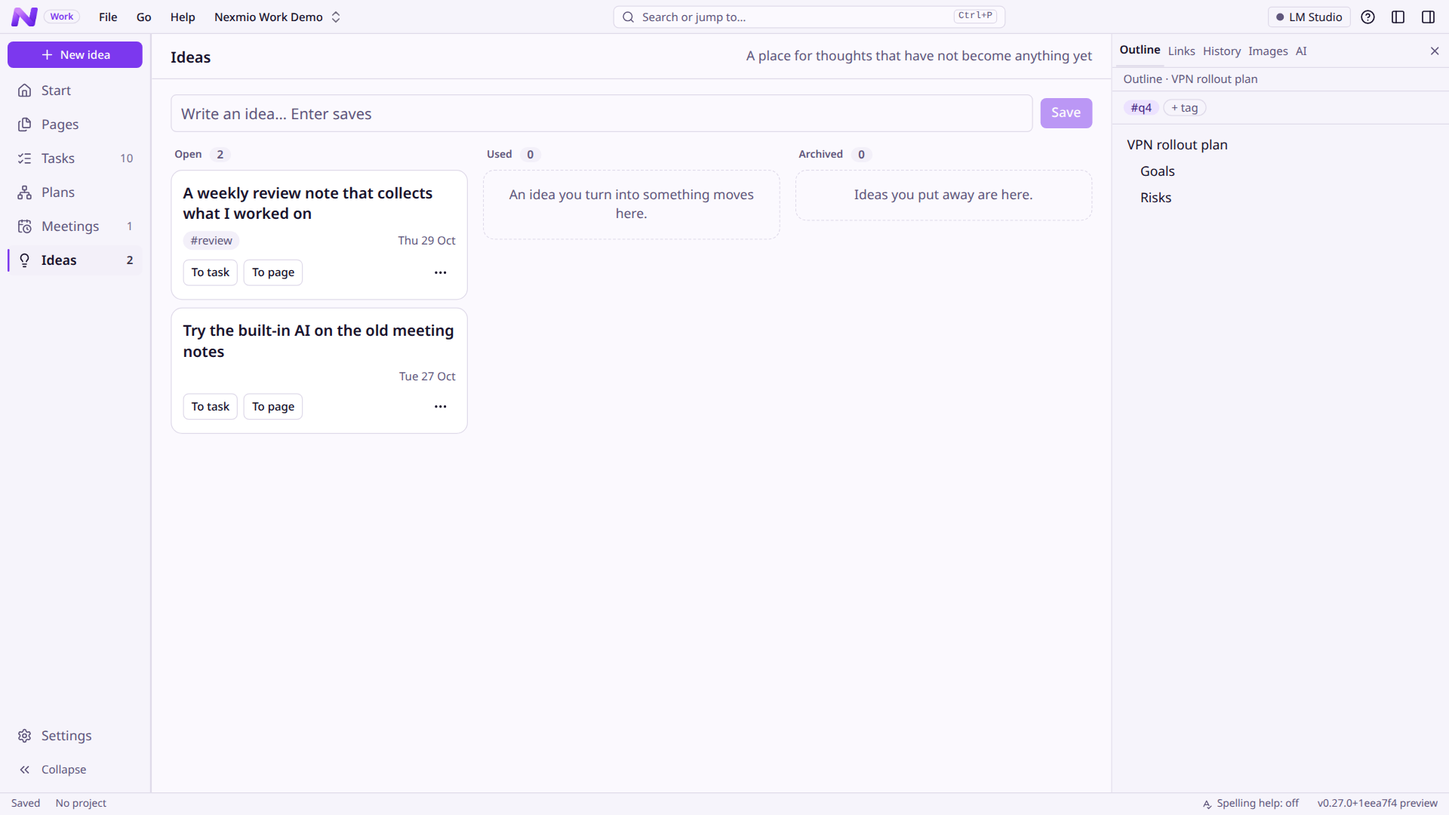
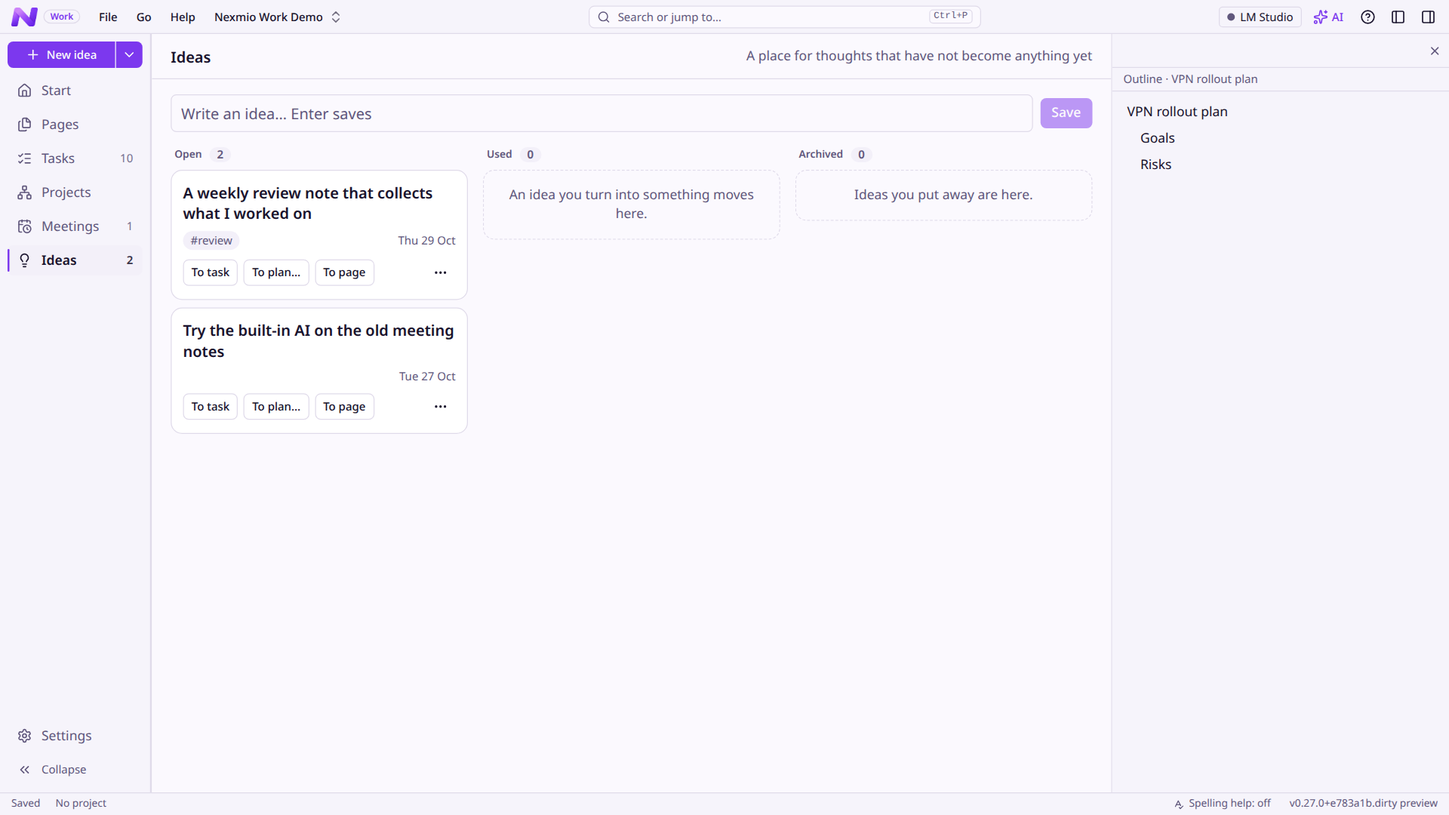
chore(site): new screenshots and text for 0.28
The website, the README and the Store listing show the app as it is now: projects with an
overview, Look back and the AI box. The screenshot script makes the three new pictures.

Claude-Session: https://claude.ai/code/session_01JqnWusy55VLZ8nyzRAkX9s

diff --git a/site/index.html b/site/index.html
@@ -26,7 +26,7 @@
 <div class="wrap" id="top">
   <div class="hero">
     <div class="hero-in">
-      <div class="badge"><i></i> Free for Windows and Linux · <b data-dl="version">v0.27</b></div>
+      <div class="badge"><i></i> Free for Windows and Linux · <b data-dl="version">v0.28</b></div>
       <span class="nx" data-logo="purple" data-tag="Work"></span>
       <h1>Think it. Plan it. Do it. Keep it.</h1>
       <p>Nexmio Work keeps your pages as plain Markdown files, with tasks, plans, meetings and an AI that runs on your own computer and only ever suggests.</p>
@@ -51,7 +51,7 @@
   <section id="features">
     <p class="eyebrow">Features</p>
     <h2 class="sec-title">Everything in one place, nothing locked in.</h2>
-    <div class="cards"><div class="feature"><div class="ico">✓</div><h3>Tasks that live in your pages</h3><p>A task is a checklist line, so it works in any editor. Group them into epics, see one epic at a time, and focus on one thing at a time.</p><ul class="ticks" style="margin-top:12px"><li>Epics with steps, a page and a log of what happened</li><li>A status on every task: Doing, Waiting or Dropped</li><li>A timer that writes the time in the task's log, and a Time view for invoices</li></ul><img class="shot" loading="lazy" src="img/tasks.png" alt="The task list with epics, progress bars, steps and status labels"></div><div class="feature"><div class="ico">✦</div><h3>An AI that only suggests</h3><p>Select text and choose what to do. Nexmio Work shows the change next to the original, and nothing is written until you accept it.</p><ul class="ticks" style="margin-top:12px"><li>Runs on your computer: built-in models, or LM Studio</li><li>Fixed commands that do one thing and return only the result</li><li>Draw a diagram from a text, added only if you say so</li></ul></div><div class="feature"><div class="ico">◧</div><h3>Pages for the whole meeting</h3><p>Write your pages in one place all through the meeting. Add only the parts you want: an agenda, decisions, and actions that become tasks.</p><ul class="ticks" style="margin-top:12px"><li>An action is a task in your page, so it shows in Tasks too</li><li>A small arrow writes an agenda point into the pages</li></ul><img class="shot" loading="lazy" src="img/meeting.png" alt="A running meeting with the agenda, the notes, decisions and actions"></div><div class="feature"><div class="ico">▦</div><h3>Plans, one part at a time</h3><p>Break something big into parts, and the parts into smaller parts. See it as an outline or as a map, and tie a part to a task, a page or an epic.</p><ul class="ticks" style="margin-top:12px"><li>Arrange the map: side by side, stacked or in a grid</li><li>Archive a plan when it is done, and open it again if you need it</li></ul></div><div class="feature"><div class="ico">☰</div><h3>A start page and your own look</h3><p>Your start page shows what you need today, built from widgets you choose. Pick Light, Dark or one of six calm palettes.</p><ul class="ticks" style="margin-top:12px"><li>Next meetings, recent pages, plans and epic progress at a glance</li><li>Your pages never change: the theme is only how the app looks</li></ul><img class="shot" loading="lazy" src="img/midnight.png" alt="The start page in the Midnight theme"></div><div class="feature"><div class="ico">#</div><h3>Your own tags, kept apart</h3><p>Tag a page with any word and find it again in search. The tags the app uses are shown apart, with what each one does.</p><ul class="ticks" style="margin-top:12px"><li>Tags are written in the page's properties, so any editor reads them</li><li>The AI never adds or takes away the app's own tags</li></ul><img class="shot" loading="lazy" src="img/tags.png" alt="The Tags window with the app's tags and your own tags"></div></div>
+    <div class="cards"><div class="feature"><div class="ico">✓</div><h3>Tasks that live in your pages</h3><p>A task is a checklist line, so it works in any editor. Group them into epics, see one epic at a time, and focus on one thing at a time.</p><ul class="ticks" style="margin-top:12px"><li>Epics with steps, a page and a log of what happened</li><li>A status on every task: Doing, Waiting or Dropped</li><li>A timer that writes the time in the task's log, and a Time view for invoices</li></ul><img class="shot" loading="lazy" src="img/tasks.png" alt="The task list with epics, progress bars, steps and status labels"></div><div class="feature"><div class="ico">✦</div><h3>An AI that knows your work, and only suggests</h3><p>Ask what to do next or what you are waiting for, or select text and choose what to do. Nothing is written until you accept it.</p><ul class="ticks" style="margin-top:12px"><li>It reads your tasks, projects and meetings, and answers from them</li><li>It can suggest tasks and parts of a plan, for you to accept</li><li>Runs on your computer: built-in models, or LM Studio</li><li>Fixed commands that do one thing and return only the result</li></ul><img class="shot" loading="lazy" src="img/ai-box.png" alt="The AI box over the task list, with questions to start with"></div><div class="feature"><div class="ico">◧</div><h3>Pages for the whole meeting</h3><p>Write your pages in one place all through the meeting. Add only the parts you want: an agenda, decisions, and actions that become tasks.</p><ul class="ticks" style="margin-top:12px"><li>An action is a task in your page, so it shows in Tasks too</li><li>A small arrow writes an agenda point into the pages</li></ul><img class="shot" loading="lazy" src="img/meeting.png" alt="A running meeting with the agenda, the notes, decisions and actions"></div><div class="feature"><div class="ico">▦</div><h3>Projects, one part at a time</h3><p>Break something big into parts, and the parts into smaller parts. See it as a map or as an outline, and tie a part to a task or a page.</p><ul class="ticks" style="margin-top:12px"><li>An overview of each project: how far it has come, what to do now, what waits, its meetings and decisions</li><li>Arrange the map: side by side, stacked or in a grid</li><li>Archive a plan when it is done, and open it again if you need it</li></ul><img class="shot" loading="lazy" src="img/projects.png" alt="A project's map with its parts as boxes, and the chosen part in the right panel"></div><div class="feature"><div class="ico">↺</div><h3>Look back on your week</h3><p>See what you finished, the time you logged, the meetings you held and the pages you wrote, all in one place, week by week.</p><ul class="ticks" style="margin-top:12px"><li>Copy it as a status report, or let the AI write a few sentences from it</li><li>One project or all of them</li></ul><img class="shot" loading="lazy" src="img/look-back.png" alt="Look back: what was done, the time logged, the meetings and the pages written this week"></div><div class="feature"><div class="ico">☰</div><h3>A start page and your own look</h3><p>Your start page shows what you need today, built from widgets you choose. Pick Light, Dark or one of six calm palettes.</p><ul class="ticks" style="margin-top:12px"><li>Next meetings, recent pages, plans and epic progress at a glance</li><li>Your pages never change: the theme is only how the app looks</li></ul><img class="shot" loading="lazy" src="img/midnight.png" alt="The start page in the Midnight theme"></div><div class="feature"><div class="ico">#</div><h3>Your own tags, kept apart</h3><p>Tag a page with any word and find it again in search. The tags the app uses are shown apart, with what each one does.</p><ul class="ticks" style="margin-top:12px"><li>Tags are written in the page's properties, so any editor reads them</li><li>The AI never adds or takes away the app's own tags</li></ul><img class="shot" loading="lazy" src="img/tags.png" alt="The Tags window with the app's tags and your own tags"></div></div>
   </section>
   <section id="files">
     <p class="eyebrow">Your files</p>

diff --git a/site/site.css b/site/site.css
@@ -137,6 +137,8 @@
 
 /* ---------- shared layout additions ---------- */
 .nav .wrap nav.links { margin-left:0; }
+/* An odd number of cards leaves the last one alone on its row: it sits under the middle column. */
+@media (min-width:1000px) { .cards > .feature:last-child:nth-child(3n+1) { grid-column:2; } }
 .feature { padding:26px; border-radius:24px; background:var(--surface); border:1px solid var(--line); position:relative; overflow:hidden; }
 .feature h3 { font-size:20px; font-weight:600; margin:0 0 8px; }
 .feature p { margin:0; color:var(--muted); }

diff --git a/docs/STORE-LISTING.md b/docs/STORE-LISTING.md
@@ -2,18 +2,18 @@
 
 Use this together with [docs/MSIX.md](MSIX.md). Everything below is in English, because the app is. Partner Center shows the exact size and length limits for each field, so trust it over this page if they differ.
 
-## What the release sends by itself
+## What the release makes for the Store
 
-Every release sends these fields to both Store products: the description, short description and search terms below; "What's new" from `CHANGELOG.md`; the notes for certification and the runFullTrust reason below; and the fixed fields in `docs/store/store-fields.json` (copyright and trademark, developed by, website, privacy policy, support contact, features, hardware). Change the text here or in that file and it goes out with the next release. The pictures below (ten screenshots, the icon and the box art) are sent with every release and replace the Store's pictures of those types. Price, markets, visibility, category and age rating are **not** touched: they stay as they were set in Partner Center. A Preview product that is not hidden is never updated (the script stops).
+Nothing is sent to the Store for now: the package and the texts are uploaded in Partner Center by hand. Every release makes these fields for both Store products (the artifact `release-texts` of the release run has them as files): the description, short description and search terms below; "What's new" from `CHANGELOG.md`; the notes for certification and the runFullTrust reason below; and the fixed fields in `docs/store/store-fields.json` (copyright and trademark, developed by, website, privacy policy, support contact, features, hardware). Change the text here or in that file and the next release has it. The pictures below (ten screenshots, the icon and the box art) are sent with every release and replace the Store's pictures of those types. Price, markets, visibility, category and age rating are **not** touched: they stay as they were set in Partner Center. A Preview product that is not hidden is never updated (the script stops).
 
 ## Files
 
-| What                      | File                                                                                                                                                                                                                                                                                                                                                                                                                                                                                                |
-| ------------------------- | --------------------------------------------------------------------------------------------------------------------------------------------------------------------------------------------------------------------------------------------------------------------------------------------------------------------------------------------------------------------------------------------------------------------------------------------------------------------------------------------------- |
-| App icon, 1:1, 300 × 300  | `docs/store/icon-300x300.png`                                                                                                                                                                                                                                                                                                                                                                                                                                                                       |
-| Box art, 1:1, 1080 × 1080 | `docs/store/box-art-1080x1080.png`                                                                                                                                                                                                                                                                                                                                                                                                                                                                  |
-| Screenshots               | `docs/screenshots/` (1920 × 1080, taken from a demo vault in a headless browser, never from real pages). The Store wants at least 1366 × 768 and accepts up to ten: `start-page.png`, `note-editor.png`, `tasks.png`, `task-page.png`, `timer.png`, `meeting.png`, `tags.png`, `themes.png`, `midnight.png`, `ideas.png`. They are the same pictures the README shows. They show no AI result, because that needs a running AI; take one of the AI review yourself on a demo vault if you want one. |
-| The package               | The artifact `nexmio-work-msix` (unsigned) from the release run                                                                                                                                                                                                                                                                                                                                                                                                                                     |
+| What                      | File                                                                                                                                                                                                                                                                                                                                                                                                                                                                                                                                                                                                                                                 |
+| ------------------------- | ---------------------------------------------------------------------------------------------------------------------------------------------------------------------------------------------------------------------------------------------------------------------------------------------------------------------------------------------------------------------------------------------------------------------------------------------------------------------------------------------------------------------------------------------------------------------------------------------------------------------------------------------------- |
+| App icon, 1:1, 300 × 300  | `docs/store/icon-300x300.png`                                                                                                                                                                                                                                                                                                                                                                                                                                                                                                                                                                                                                        |
+| Box art, 1:1, 1080 × 1080 | `docs/store/box-art-1080x1080.png`                                                                                                                                                                                                                                                                                                                                                                                                                                                                                                                                                                                                                   |
+| Screenshots               | `docs/screenshots/` (1920 × 1080, taken from a demo vault in a headless browser, never from real pages). The Store wants at least 1366 × 768 and accepts up to ten. Use these, in this order: `start-page.png`, `projects.png`, `project-overview.png`, `look-back.png`, `ai-box.png`, `tasks.png`, `note-editor.png`, `meeting.png`, `task-page.png`, `themes.png`. The others (`timer.png`, `tags.png`, `ideas.png`, `midnight.png`) are for the README and the website. They are the same pictures the README shows. They show no AI result, because that needs a running AI; take one of the AI review yourself on a demo vault if you want one. |
+| The package               | The artifact `nexmio-work-msix` (unsigned) from the release run                                                                                                                                                                                                                                                                                                                                                                                                                                                                                                                                                                                      |
 
 ## Product identity and name
 
@@ -32,9 +32,9 @@ Nexmio Work is a pages app for people who want to own their pages. Your pages ar
 
 - A live-preview Markdown editor with a toolbar, tabs, split view and a table editor. Mermaid diagrams are drawn right in the page.
 - Tasks are plain checklist lines in your pages, with steps, a page and a log. Epics group them in one outline you can fold, and move to Done when every task is done. A task made from a page gets an epic of its own that points back to the page.
-- Projects and plans: a project is a folder with its own notes for the AI. A plan always lives in a project: break it into parts, as an outline or a map, and tie a part to a task, a page or an epic. A project can wait for its plan until you have gathered enough to make one, and the same task can be made for several people at once.
+- Projects and plans: a project is a folder with its own notes for the AI. A plan always lives in a project: break it into parts, as a map or an outline, and tie a part to a task or a page. An overview shows how far the project has come, what to do now, what waits, and its meetings and decisions. A project can wait for its plan until you have gathered enough to make one, and the same task can be made for several people at once.
 - An ideas list, a timer beside the page that writes the time on a task in its log, and an overview of the time per tag and task.
-- Landing keeps Meetings, Quick pages and Tasks together, with a mark on new pages and a button to move them where they belong.
+- The Inbox keeps Meetings, Tasks and pages made from ideas together, with a mark on new pages and a button to move them where they belong.
 - Daily pages in a calendar at the top of the file panel. Wiki-links, tags (typing # suggests the ones you already use), images and index pages.
 - Full-text search, and search by meaning with a local embedding model.
 - Export to HTML, Word and PDF. Import from a folder of Markdown files, for example a OneNote export.
@@ -43,7 +43,8 @@ Nexmio Work is a pages app for people who want to own their pages. Your pages ar
 
 - Select text for quick changes: fix spelling, rewrite, shorten and more. The AI can also point out spelling mistakes as you type, in the language of the text.
 - Ready-made commands above each page, on folders, on search answers, on tasks and on ideas: summarise, find a title and tags, suggest the next steps, think an idea through. You review every change before it is written.
-- A plain chat to ask about your pages, where you can point at pages or folders with /.
+- An AI box over the right side of the window, wherever you are. Ask what to do next or what you are waiting for: it reads your tasks, projects and meetings, answers how-to questions from the help, and can suggest tasks and parts of a plan for you to accept. Point at pages or folders with /.
+- Look back on your week: what you finished, the time you logged, your meetings and the pages you wrote, as a status report you can copy or let the AI write.
 - Skills: ready-made jobs such as fixing spelling, tidying the structure or sorting a folder. Nexmio Work checks every change (links, tags, numbers and dates).
 - Your pages are sent to an AI that runs on your own computer (LM Studio or another local AI). A cloud AI can be turned on, after a warning that your pages are then sent to it.
 - Everything else works the same without any AI.
@@ -92,11 +93,9 @@ Nexmio Work is a desktop pages app with open source code (Tauri, Rust and a WebV
 
 How to try it: start the app, choose "Open folder as vault" and pick or create any empty folder. Create a page with Ctrl+N. No account or sign-in is needed.
 
-The AI features use an AI server on the user's own computer (for example LM Studio) that is not part of the package. Without one, the app is a normal Markdown editor with version history. No data is sent anywhere unless the user turns on a cloud AI and agrees to the warning.
+The AI features use an AI on the user's own computer. The app offers a built-in AI: only when the user presses Download in Settings > AI, it downloads the open-source llama.cpp server (llama-server, MIT licence, from github.com/ggml-org/llama.cpp releases) and a model file (from huggingface.co), checks them, keeps them in the app's own data folder and runs the server as a local process on 127.0.0.1 with a random key. This is the described functionality of the AI feature; nothing is downloaded without the user asking. The user can also use an AI server of their own (for example LM Studio) instead. Without an AI, the app is a normal Markdown editor with version history. No data is sent anywhere unless the user turns on a cloud AI and agrees to the warning.
 
 The app shows AI-generated answers (live generative AI). The model is one the user connects themselves. To report inappropriate AI content, use Help > "Report inappropriate AI content…": it opens a pre-filled issue on the developer's GitHub page, and reports are read and acted on.
-
-The package has no built-in AI in this version.
 
 The app does not collect any data. Privacy policy: https://work.nexmio.com/privacy.html
 ```
@@ -108,7 +107,7 @@ Nexmio Work is a classic desktop application (Tauri/Rust with a WebView2 front e
 
 1. It reads and writes the Markdown files and the Git repositories (the version history) in folders that the user opens anywhere on their disk, for example Documents or a synced folder, and it watches those folders for changes made by other programs.
 2. It can make a backup copy of a vault in another folder the user chooses, for example on an external disk.
-3. It talks to an AI server on the user's own computer (for example LM Studio on localhost).
+3. It talks to an AI server on the user's own computer: the built-in one (llama-server, which it downloads when the user asks and starts as a local process) or one the user runs (for example LM Studio on localhost).
 
 The app has no account, no telemetry and no background service, and it sends nothing from the user's pages anywhere. The source code is public: https://github.com/nexmio/work.nexmio.com
 ```

diff --git a/README.md b/README.md
@@ -38,7 +38,8 @@ Nexmio Work never looks for updates by itself and sends nothing. Use Help → Ch
 - A live-preview Markdown editor with a formatting toolbar, tabs, a split view, a table editor, Mermaid diagrams, a Markdown source view (`Ctrl/Cmd+Alt+M`), pictures with a size bar, and `[[wiki-links]]` with autocomplete and link updates when a page is renamed or moved.
 - A new page is named by its title. Names Windows cannot keep (a dot at the end, `CON`, `NUL`, `\ / : * ? " < > |`) are refused on every system, so a vault works everywhere.
 - Daily pages in a calendar at the top of the file panel, and **Trace my work**: one line a day under "Worked on" for each page and task you worked on (off by default).
-- A **start page** you build yourself from widgets (Continue, Recent, Pinned, Write it down, Search and ask, Next meeting, Working on, To sort, Areas, Changed since yesterday, Epic progress).
+- A **start page** you build yourself from widgets (Continue, Recent, Pinned, Write it down, Search and ask, Next meeting, Working on, To sort, Areas, Changed since yesterday, Epic progress, This week). **Pin** a page, an epic or a task from its right-click menu to keep it on the start page.
+- **New** at the top of the navigation makes what the area shows, and its arrow lists everything you can make (a page, a task, a project, a meeting, an idea) wherever you are.
 - Eight themes: Light, Dark, Slate, Paper, Mint, Midnight, Graphite and Ember, or follow the computer.
 - **Reading** settings: line spacing, letter spacing, font, and **Follow the line**, which dims every line but the one you are in. A choice shows at once and Cancel puts it back.
 
@@ -49,7 +50,7 @@ Nexmio Work never looks for updates by itself and sends nothing. Use Help → Ch
 - A task that is **Waiting** can say who or what it waits for, and which other task it waits for. That task says which tasks wait for it, and the waiting one says **Ready** when it is done.
 - The task list shows one epic at a time: the task to do now with its next step, the ones after it, the ones that wait for others, and the done ones folded away.
 - A task can point at a page with a `[[wiki-link]]` in its own line. Tasks and steps can be put in your own order.
-- **Write it down** from anywhere (`Ctrl/Cmd+Shift+N`): a quick page, a task or an idea, each in its own small box. Ideas are a list you turn into a task or a page later.
+- **Write it down** from anywhere (`Ctrl/Cmd+Shift+N`): a task or an idea, each in its own small box. Ideas are a list you turn into a task or a page later.
 - **A taskbar helper (Windows, off until you turn it on).** An icon in the taskbar and keys that work in every program: write something down, and say where you left off. You choose the keys under Settings → Pages and backup, and the settings tell you if another program uses them. Nexmio Work can stay in the taskbar when the window is closed. On other systems it is greyed out.
 
 **Meetings**
@@ -60,7 +61,7 @@ Nexmio Work never looks for updates by itself and sends nothing. Use Help → Ch
 
 **Tags and search**
 
-- Tags are written in a page's properties (`tags: [vpn]`) or as `#vpn` in the text, and they are the same tag. You choose your own tags; Nexmio Work has three of its own, **Meeting**, **Epic** and **Pinned**, which change what Nexmio Work does with the page and are shown apart, with what each one does. Meeting and Epic are written in the page; a pin is kept in `.vault/meta.json`.
+- Tags are written in a page's properties (`tags: [vpn]`) or as `#vpn` in the text, and they are the same tag. You choose your own tags; Nexmio Work has its own, **Meeting**, **Epic**, **Pinned** and **Plan**, which change what Nexmio Work does with the page and are shown apart, with what each one does. Meeting and Epic are written in the page; a pin is kept in `.vault/meta.json`.
 - Full-text search with `tag:` and `path:` filters, and optional search by meaning with a local embedding model. **Answer from my pages** answers a question from the pages that fit.
 
 **History and AI**
@@ -69,7 +70,9 @@ Nexmio Work never looks for updates by itself and sends nothing. Use Help → Ch
 - AI on selected text in a page **and in every text box** (fix spelling, rewrite, shorten, translate, explain, draw as a diagram and more), **In short** for a whole page (the main points and the things to do, and you tick which become tasks), AI commands for a whole page or folder (spelling, structure, summary, a title and tags, sort into folders), skills that Nexmio Work carries out page by page, and a chat that searches and reads your pages to answer. Nexmio Work checks every change a skill makes (links, tags, numbers, dates, code) before it is offered.
 - **Test it** under each AI in Settings → AI asks one short question, with none of your pages, and shows the answer or the error in plain words. The built-in AIs are marked Beta.
 - **Spelling help** that marks misspelt words in the language of the text and never changes anything by itself.
-- Projects: a folder with its own tree, its own AI and a page for the AI about the project.
+- **Projects and plans.** A project is a folder with its own tree, its own AI rules and its own tag; its plan is a page whose list is the parts of the work, as a map or an outline. Each project has an **Overview**: how far it has come, the task to do now, the time logged this month, what waits for others, its meetings and decisions, and its newest pages. A meeting can belong to a project, and an idea can become a part of a plan.
+- **The AI box.** **AI** in the top bar (or `Ctrl/Cmd+L`) opens the AI as a box over the right side, over anything: the chat and the queue of AI jobs. The chat knows your projects, tasks and meetings ("What should I do next?", "What am I waiting for?"), answers how-to questions from the help with a **Show me** button, and can propose tasks and parts of a plan that you accept first. Projects, Tasks, Meetings and the start page each have an AI button with what fits there, such as breaking down the chosen part or finding the decisions and actions in a meeting.
+- **Look back** (Tasks → Look back): a week from Monday in one place: what you finished and what moved on, the time logged, the meetings and their decisions, and the pages you wrote. Copy it as a status report, or let the AI write one in the queue.
 - Import from a folder (for example a OneNote export, see [docs/IMPORT-ONENOTE.md](docs/IMPORT-ONENOTE.md)) and export to HTML, Word and PDF.
 
 <table>
@@ -88,6 +91,14 @@ Nexmio Work never looks for updates by itself and sends nothing. Use Help → Ch
   <tr>
     <td><img src="docs/screenshots/ideas.png" alt="Ideas: the list, and the box to write one down"></td>
     <td><img src="docs/screenshots/themes.png" alt="Settings, General: the eight themes as cards"></td>
+  </tr>
+  <tr>
+    <td><img src="docs/screenshots/projects.png" alt="A project's map with its parts as boxes, and the chosen part in the right panel"></td>
+    <td><img src="docs/screenshots/project-overview.png" alt="The overview of a project: how far it has come, the task to do now, meetings, decisions and what waits"></td>
+  </tr>
+  <tr>
+    <td><img src="docs/screenshots/look-back.png" alt="Look back: what was done, the time logged, the meetings and the pages written this week"></td>
+    <td><img src="docs/screenshots/ai-box.png" alt="The AI box over the task list, with questions to start with"></td>
   </tr>
   <tr>
     <td colspan="2"><img src="docs/screenshots/midnight.png" alt="The start page in the Midnight theme"></td>
@@ -174,7 +185,7 @@ pnpm check            # everything CI runs: format, lint, types, tests, clippy
 
 Step-by-step instructions for Linux and Windows are in [docs/START-GUIDE.md](docs/START-GUIDE.md).
 
-**Releases.** Pushing a tag (`pnpm release:tag`) makes GitHub Actions build Nexmio Work Preview at once (installers and the Microsoft Store package) and publish it as a pre-release. When a Preview is good enough, `pnpm release:stable` makes it Nexmio Work: built the same way, sent to the Store and made the latest release. The tag must match the version in `package.json`. The website is the folder `site/`, published by `.github/workflows/pages.yml`; its download buttons follow the GitHub releases by themselves. The steps are in [docs/RELEASING.md](docs/RELEASING.md).
+**Releases.** Pushing a tag (`pnpm release:tag`) makes GitHub Actions build Nexmio Work Preview at once (installers and the Microsoft Store package) and publish it as a pre-release. When a Preview is good enough, `pnpm release:stable` makes it Nexmio Work: built the same way and made the latest release. The Microsoft Store package is kept as a download of the run and is uploaded in Partner Center by hand for now. The tag must match the version in `package.json`. The website is the folder `site/`, published by `.github/workflows/pages.yml`; its download buttons follow the GitHub releases by themselves. The steps are in [docs/RELEASING.md](docs/RELEASING.md).
 
 **How the app is made.** Tauri 2 with a Rust backend and a React 19 and TypeScript frontend. [docs/AREAS.md](docs/AREAS.md) maps the app into areas and the files that belong to each; every change starts from a brief, has a change plan and ends with a change report (`pnpm areas report`).
 
@@ -183,13 +194,13 @@ Step-by-step instructions for Linux and Windows are in [docs/START-GUIDE.md](doc
 - [docs/START-GUIDE.md](docs/START-GUIDE.md): getting started
 - [docs/UX-GUIDE.md](docs/UX-GUIDE.md): how every screen looks and works
 - [docs/MANUAL_TESTS.md](docs/MANUAL_TESTS.md): the manual test checklist
-- [docs/DECISIONS.md](docs/DECISIONS.md): design decisions
+- [docs/DECISIONS.md](docs/DECISIONS.md): the design decisions that hold now, by area; [docs/history/DECISIONS-2026.md](docs/history/DECISIONS-2026.md): the full history
 - [docs/IMPORT-ONENOTE.md](docs/IMPORT-ONENOTE.md): moving pages from OneNote
 - [docs/MSIX.md](docs/MSIX.md) and [docs/STORE-LISTING.md](docs/STORE-LISTING.md): the Microsoft Store package
 - [docs/shared-facts.json](docs/shared-facts.json): the sentences the website and this page say in the same words
 - [PRIVACY.md](PRIVACY.md): what Nexmio Work does with your data (nothing leaves your computer unless you choose it)
 - [CHANGELOG.md](CHANGELOG.md): what changed in each version
-- [CLAUDE.md](CLAUDE.md): how the app is built and changed; [docs/history/SPEC-v1.md](docs/history/SPEC-v1.md): the original v1 specification, with later changes in DECISIONS.md
+- [CLAUDE.md](CLAUDE.md): how the app is built and changed; [docs/history/SPEC-v1.md](docs/history/SPEC-v1.md): the original v1 specification, with later changes in docs/history/DECISIONS-2026.md
 
 ## Licence and your own version
 
